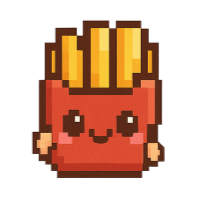
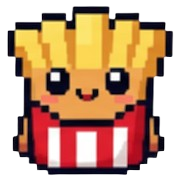
feat: 푸라이 이미지 변경

diff --git a/popups/popup.html b/popups/popup.html
@@ -51,9 +51,9 @@
   <div id="create-new-bugi" class="custom-button">햄부기 주문</div>
   <div id="destroy-bugi" class="custom-button">햄부기 폐기</div>
   <div id="destroy-all-bugis" class="custom-button">햄부기 전량 폐기</div>
-  <div id="create-new-french-fries" class="custom-button">감자튀김 주문</div>
-  <div id="destroy-french-fries" class="custom-button">감자튀김 폐기</div>
-  <div id="destroy-all-french-fries" class="custom-button">감자튀김 전량 폐기</div>
+  <div id="create-new-french-fries" class="custom-button">푸라이 주문</div>
+  <div id="destroy-french-fries" class="custom-button">푸라이 폐기</div>
+  <div id="destroy-all-french-fries" class="custom-button">푸라이 전량 폐기</div>
 </div>
 <style>
   .section {
@@ -114,7 +114,7 @@
     <input id="api-key" type="password" placeholder="API Key 입력" />
   </div>
   <div class="row">
-    <label><input type="checkbox" id="remember-key" /> API Key 저장 (로컬)</label>
+    <label><input type="checkbox" id="remember-key" /> API Key 저장 (Local)</label>
   </div>
   <div class="row">
     <label>추가 프롬프트 (선택)</label>
@@ -155,8 +155,8 @@
 </div>
 <div class="container">
   <div id="create-new-friend" class="custom-button" disabled style="opacity: 0.5;">새 친구 생성 🎉</div>
-  <div id="destroy-new-friend" class="custom-button">새 친구 폐기</div>
-  <div id="destroy-all-new-friends" class="custom-button">새 친구 전량 폐기</div>
+  <div id="destroy-new-friend" class="custom-button">새 친구 제거</div>
+  <div id="destroy-all-new-friends" class="custom-button">새 친구 모두 제거</div>
 </div>
 <script src="../lib/nanobanana.js"></script>
 <script src="../lib/spritesheet.js"></script>
